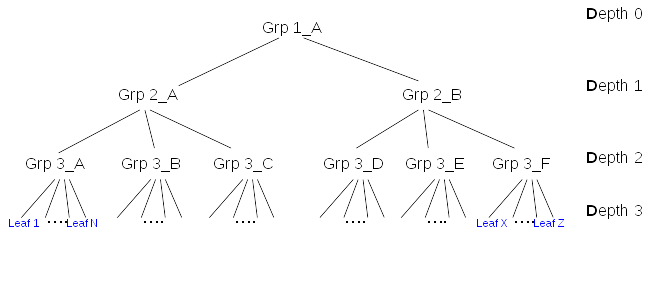
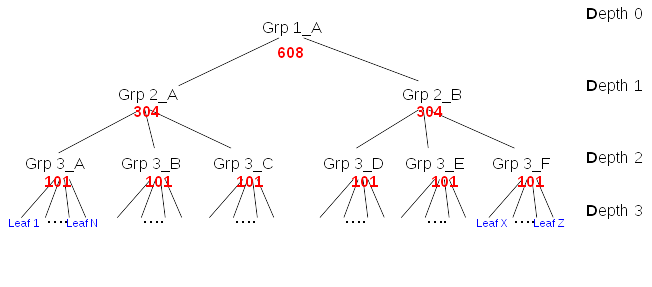
memberof-scalability type of trees (5)

diff --git a/docs/389ds/design/memberof-scalability.md b/docs/389ds/design/memberof-scalability.md
@@ -105,20 +105,20 @@ The expected cost of look down with a fix for [48861](https://fedorahosted.org/3
 
 #### Look up group membership of impacted members
 
-When a group is updated, for each **impacted members** it computes all the groups containing (direct or indirect) the impacted member. So for each node (leafs and intermediate nodes) it does an internal search 
+When a group is updated, for each **impacted members** it computes all the groups containing (direct or indirect) the impacted members. So for each node (leafs and intermediate nodes) it does an internal search 
 
     SRCH base="<suffix>" scope=2 filter="(|(attr_1=<node_dn>)..(attr_N=<node_dn))" attrs=ALL
     attr_1,...,attr_N: are membership attributes (defined in "cn=MemberOf Plugin,cn=plugins,cn=config")
     They are supposed to be indexed in equality
 
-If this search in indexed and fast but item that can influence the cost are
+If this search is indexed and fast but item that can influence the cost are
 
 - the more there are membership attributes the more expensive it is
 - the search will retrieves *groups* that are possibly big entries. It is more expensive if the *groups* are not in the **entry cache**
 
 
 It is quite difficult to express in mathematical way the cost of the look down. Here is an attempt to describe it:
-Having a *list of impacted nodes* (containing potentially *duplicate*), for each of them it goes thru **all** paths from this node back to the root. The lenght of the paths can be different although they end to the root. It triggers an internal search for each nodes on each paths. So the cost (for a given node) is the sum of the number of nodes on all paths from *given node to root*. A mechanism to detect cycle can reduce the number so that common parts of the paths are accounted once. Finally, there are **plg** internal searches per fixup node. 
+Having a *list of impacted nodes* (possibly containing *duplicates*), for each of them it goes thru **all** paths from this node back to the root. Starting from a given node, the lenght of the paths can be different although they end to the root. It triggers an internal search for each nodes on each paths. So the cost (for a given node) is the sum of the number of nodes on all paths from *given node to root*. A mechanism to detect cycle can reduce the cost so that common parts of the paths are accounted once. Finally, there are **plg** internal searches per fixup node. 
 For example with *leaf groups* (node of Depth 3) having **100** leafs:
 
 
@@ -127,26 +127,52 @@ For example with *leaf groups* (node of Depth 3) having **100** leafs:
 - tree [type 3](#Type 3): **3736** internal searches
 
 
-Making sure that the *list of impacted nodes* does not contain duplicate ([48861](https://fedorahosted.org/389/ticket/48861)) has a significant impact during *look up*. In [type 3 tree](#Type 3), each member of Grp_3_C have 2 paths back to root so the look up cost of each of them will be divided by 2. The more paths it exists to a node, the more expensive is the node.
+Making sure that the *list of impacted nodes* does not contain duplicate ([48861](https://fedorahosted.org/389/ticket/48861)) has a significant impact during *look up*. In [type 3 tree](#Type 3), each member of Grp_3_C have 2 paths back to root so the look up cost of each of them will be divided by 2. **The more paths it exists to a node, the more expensive is the node**.
 
 ### Improvements
 
 #### Prevent duplicate 48861
 
-When updating membership attributes of a group, a direct or indirect impacted member of that group can be found several time. The ticket [48861](https://fedorahosted.org/389/ticket/48861) will prevent that an impacted member is listed/fixed several time. A first fix, caching in an hash table the already fixed nodes, divides by **2** the duration of provision of a tree. The tree being creates with [create_test_data.py](https://github.com/freeipa/freeipa-tools/blob/master/create-test-data.py)
+When updating membership attributes of a group, a direct or indirect impacted member of that group can be found several time. The ticket [48861](https://fedorahosted.org/389/ticket/48861) will prevent that an impacted member is listed/fixed several time. A first fix, caching in an hash table the already fixed nodes, divides by **2** the duration of provisioning of a tree. The tree being creates with [create_test_data.py](https://github.com/freeipa/freeipa-tools/blob/master/create-test-data.py)
 
 
 #### caching of groups
 
-The internal searches target nodes in the tree. But the number of internal searches in the **intermediate nodes (the groups)** is much higher and fluctuates if there are nested groups and leafs belonging to several groups. The 
+The vast majority of the *Look up* internal searches is to retrieve the *groups owning a given node*.
+
+    SRCH base="<suffix>" scope=2 filter="(|(attr_1=<node_dn>)..(attr_N=<node_dn))" attrs=ALL
+    attr_1,...,attr_N: are membership attributes (defined in "cn=MemberOf Plugin,cn=plugins,cn=config")
+
+But looking at internal searches filters we can see an increasing number of them as the *<node_dn>* moves to the root. It also fluctuates  highly as soon as there are nested groups and nodes/leafs belong to several groups. 
+
+In the three following figures, the number in red (close to *<node_dn>*) is the number of searches:
+
+    SRCH base="<suffix>" scope=2 filter="(|(attr_1=<node_dn>)..(attr_N=<node_dn))" attrs=ALL
+
+Type 1 
 
 ![Membership tree](../../../images/memberof_type_1_cost_of_groups.png "Type 1: Cost of groups")
 
+Type 2 
 
 ![Membership tree](../../../images/memberof_type_2_cost_of_groups.png "Type 2: Cost of groups")
 
+Type 3
 
 ![Membership tree](../../../images/memberof_type_3_cost_of_groups.png "Type 3: Cost of groups")
+
+
+In conclusion:
+
+- The number of *filter="(|(attr_1=<leaf_n>).(attr_N=<leaf_n))"* remains low (1 or 2) in all types of trees 
+- The number of *filter="(|(attr_1=<group_n>).(attr_N=<group_n))"* is very high compare to the leaf
+- The number of *filter="(|(attr_1=<group_n>).(attr_N=<group_n))"* increase as moving up in the three
+
+So if we can satisfy *filter="(|(attr_1=<group_n>).(attr_N=<group_n))"* without doing internal searches and basically have only 1 internal search per nodes (leafs or groups) it will reduce the cost of *look up* by
+
+- Type 1: From ~3000 to ~600
+- Type 2: From ~3000 to ~600
+- Type 3: From ~3700 to ~600
 
 
 ##### case 1 - impacted members appear once in the tree
